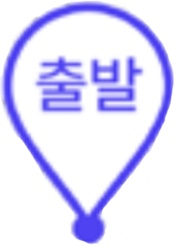
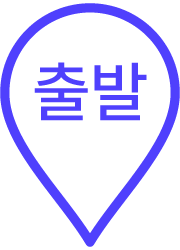
[Fix] 주문 상세 페이지 미니맵 마커 수정

Changed region(s): [[0.0, 0.0, 1.0, 0.9959], [0.1714, 0.2276, 0.8286, 0.4837]]

diff --git a/lib/order_detail.dart b/lib/order_detail.dart
@@ -1,5 +1,6 @@
 import 'dart:async';
 import 'dart:convert';
+import 'dart:io';
 import 'dart:math' as math;
 import 'package:flutter/cupertino.dart';
 import 'package:flutter/material.dart';
@@ -9,15 +10,15 @@ import 'package:geocoding/geocoding.dart' as geo;
 import 'package:geolocator/geolocator.dart';
 import 'package:permission_handler/permission_handler.dart';
 import 'package:speelow/HorizontalDashedDivider.dart';
-import 'package:url_launcher/url_launcher.dart';
 import 'package:http/http.dart' as http;
 import 'api/api.dart';
 import 'kakao_map.dart';
 import 'menu_bottom.dart';
 import 'model/store.dart';
 import 'model/orderDetail.dart';
-import 'package:cupertino_icons/cupertino_icons.dart';
 import 'package:intl/intl.dart';
+import 'package:url_launcher/url_launcher.dart';
+
 OrderDetail? order;
 Duration? duration;
 
@@ -32,10 +33,6 @@ class OrderDetailScreen extends StatefulWidget {
   State<OrderDetailScreen> createState() => _OrderDetailScreenState();
 }
 
-
-
-
-
 class _OrderDetailScreenState extends State<OrderDetailScreen> {
   late NaverMapController _mapController;
   Completer<NaverMapController> mapControllerCompleter = Completer();
@@ -45,15 +42,6 @@ class _OrderDetailScreenState extends State<OrderDetailScreen> {
   double from_longitude = 26.356;
   double to_latitude = 30;
   double to_longitude = 20;
-
-
-
-
-
-
-
-
-
 
   addressToPM(String address) async {
     //String address = '경북 경산시 대학로 280';
@@ -79,14 +67,14 @@ class _OrderDetailScreenState extends State<OrderDetailScreen> {
         await Geolocator.getCurrentPosition(
                 desiredAccuracy: LocationAccuracy.high)
             .then((position) {
-          setState(() {
+          setState(() async {
             from_latitude = position.latitude;
             from_longitude = position.longitude;
             print('현재위치 받아옴');
-            Size size = new Size(16, 20);
+            Size size = new Size(17, 22);
+
             final marker = NMarker(
                 id: '출발지', position: NLatLng(from_latitude, from_longitude));
-            //marker.setIconTintColor(Color(0xFF311B92));
             marker.setIcon(const NOverlayImage.fromAssetImage('asset/images/from.png'));
             marker.setSize(size);
             _mapController.addOverlay(marker);
@@ -97,32 +85,29 @@ class _OrderDetailScreenState extends State<OrderDetailScreen> {
             marker2.setSize(size);
             _mapController.addOverlay(marker2);
 
-            print('출발지!!! : $from_latitude, $from_longitude');
-            print('목적지!!! : $to_latitude, $to_longitude');
-
-            NPathOverlay path = NPathOverlay(id: 'route', coords: [
+            NPathOverlay path = NPathOverlay(
+              id: 'route', coords: [
               NLatLng(from_latitude, from_longitude),
-              NLatLng(to_latitude, to_longitude),
-            ]);
+              NLatLng(to_latitude, to_longitude)],
+              outlineWidth: 0,
+            );
             path.setPatternImage(
                 NOverlayImage.fromAssetImage('asset/images/testing.png')
             );
             path.setPatternInterval(9);
+            path.setWidth(5);
+            path.setColor(Colors.blue);
+            _mapController.addOverlay(path);
 
-              path.setWidth(10);
-              path.setColor(Colors.blue);
-              _mapController.addOverlay(path);
+            double centerlat = (from_latitude + to_latitude);
+            double centerlon = (from_longitude + to_longitude);
+            NCameraUpdate nCameraUpdate = NCameraUpdate.withParams(
+                target: NLatLng(centerlat/2, centerlon/2),
+                zoom: 9
+            );
 
-              double centerlat = (from_latitude + to_latitude);
-              double centerlon = (from_longitude + to_longitude);
-              NCameraUpdate nCameraUpdate = NCameraUpdate.withParams(
-                  target: NLatLng(centerlat/2, centerlon/2),
-                  zoom: 13.5
-              );
-
-              if (_mapController != null)
-                _mapController.updateCamera(nCameraUpdate);
-
+            if (_mapController != null)
+              _mapController.updateCamera(nCameraUpdate);
           });
         });
       } else {
